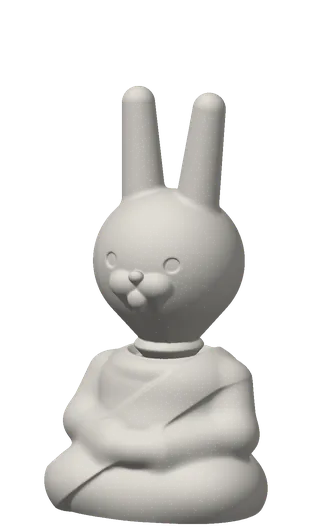
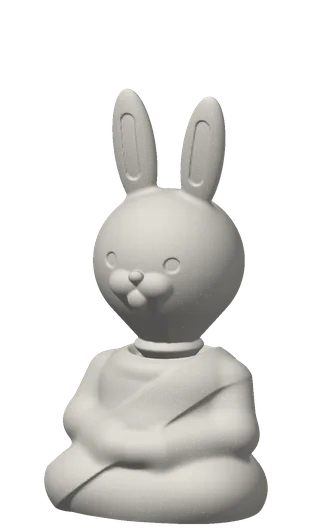
feat: bunny with leaf-shaped ears, longer fish, 'Your three' bundle in pricing (D-038)

Changed region(s): [[0.3462, 0.1515, 0.7212, 0.4242]]

diff --git a/assets/site.js b/assets/site.js
@@ -5,7 +5,7 @@
   "use strict";
   var S = window.QUIET_COMPANY;
   // Seated height in mm for the heads that stand well above the rest; standing and walking add 25.
-  var TALL_MM = { glasses: 118, cyclops: 123, longhair: 122, beard: 123, ponytail: 124, curls: 130, bun: 134, troll: 122, husky: 123, lion: 123, robot: 123, quiff: 125, ghost: 125, minotaur: 126, 
+  var TALL_MM = { fish: 116, glasses: 118, cyclops: 123, longhair: 122, beard: 123, ponytail: 124, curls: 130, bun: 134, troll: 122, husky: 123, lion: 123, robot: 123, quiff: 125, ghost: 125, minotaur: 126, 
                   alien: 128, jester: 131, dragon: 132, bunny: 140, elf: 140, wizard: 140, giraffe: 148, unicorn: 155 };
   var HEAD_IDS = Object.keys(S.HEADS), BODY_IDS = Object.keys(S.BODIES);
 
